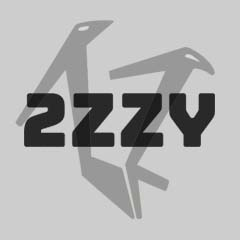
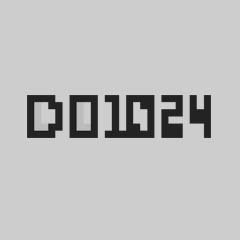
像素1024新站建设准备

Changed region(s): [[0.0583, 0.0583, 0.9042, 0.9333]]

diff --git a/pinry-spa/public/index.html b/pinry-spa/public/index.html
@@ -5,16 +5,13 @@
     <meta http-equiv="X-UA-Compatible" content="IE=edge">
     <meta name="viewport" content="width=device-width,initial-scale=1.0">
     <link rel="icon" href="<%= BASE_URL %>favicon.png">
-    <title>2ZZY - Beautiful legs and heels</title>
-    <meta name="description" content="Beautiful legs and heels.">
-    <meta name="keywords" content="Beautiful legs,脚フェチ,美腿,高跟鞋,足控,丝袜,ヒール,パンスト,パンプス,heels,美脚">
+    <title>Do1024 - Pixel Arts</title>
+    <meta name="description" content="Pixel Arts For GameMakers.">
+    <meta name="keywords" content="pixel,game,pixel arts,draw,gamemaker,像素风,像素画,像素艺术">
   </head>
   <body>
-    <!-- ads -->
-    <script type="application/javascript" src="https://syndication.exdynsrv.com/splash.php?idzone=3880262"></script>
-    <!-- ads -->
     <noscript>
-      <strong>We're sorry but 2ZZY doesn't work properly without JavaScript enabled. Please enable it to continue.</strong>
+      <strong>We're sorry but Do1024 doesn't work properly without JavaScript enabled. Please enable it to continue.</strong>
     </noscript>
     <div id="app"></div>
     <!-- built files will be auto injected -->

diff --git a/pinry-spa/src/components/Comments.vue b/pinry-spa/src/components/Comments.vue
@@ -72,11 +72,6 @@
     </footer>
   </div>
 </div>
-    <hr />
-  <!--Ads-->
-    <iframe src="//a.exdynsrv.com/iframe.php?idzone=3880266&size=315x300" width="315" height="300" scrolling="no" marginwidth="0" marginheight="0" frameborder="0"></iframe>
-    <iframe src="//a.exdynsrv.com/iframe.php?idzone=3880286&size=315x300" width="315" height="300" scrolling="no" marginwidth="0" marginheight="0" frameborder="0"></iframe>
-  <!--Ads-->
   </div>
 </template>
 

diff --git a/pinry-spa/vue.config.js b/pinry-spa/vue.config.js
@@ -17,7 +17,7 @@ module.exports = {
     },
   },
   pwa: {
-    name: '2ZZY',
+    name: 'Do1024',
     appleMobileWebAppCapable: 'yes',
     appleMobileWebAppStatusBarStyle: 'black',
     // configure the workbox plugin

diff --git a/pinry-spa/src/main.js b/pinry-spa/src/main.js
@@ -14,7 +14,7 @@ Vue.use(VueMasonryPlugin);
 Vue.use(VueI18n);
 setUpAxiosCsrfConfig();
 Vue.use(VueAnalytics, {
-  id: 'UA-125854450-2',
+  id: 'UA-125854450-5',
   router,
 });
 

diff --git a/core/admin.py b/core/admin.py
@@ -3,8 +3,8 @@ from django.contrib import admin
 from .models import Pin, Board
 
 # 自定义管理站点的名称和URL标题
-admin.site.site_header = '2ZZY管理'
-admin.site.site_title = '2ZZY管理后台'
+admin.site.site_header = 'Pixel管理'
+admin.site.site_title = 'Pixel管理管理后台'
 
 
 class PinAdmin(admin.ModelAdmin):

diff --git a/pinry/urls.py b/pinry/urls.py
@@ -18,7 +18,7 @@ urlpatterns = [
     url(r'^api/v2/docs/', include_docs_urls(title='PINPRO', schema_url='/')),
 
     # old api and views
-    url(r'^admin/', include(admin.site.urls)),
+    url(r'^guanliyuan/', include(admin.site.urls)),
     url(r'^api/v2/profile/', include('users.urls', namespace='users')),
 ]
 
